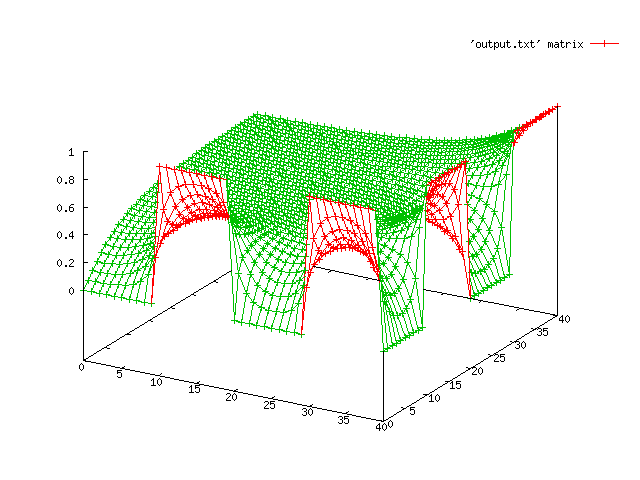
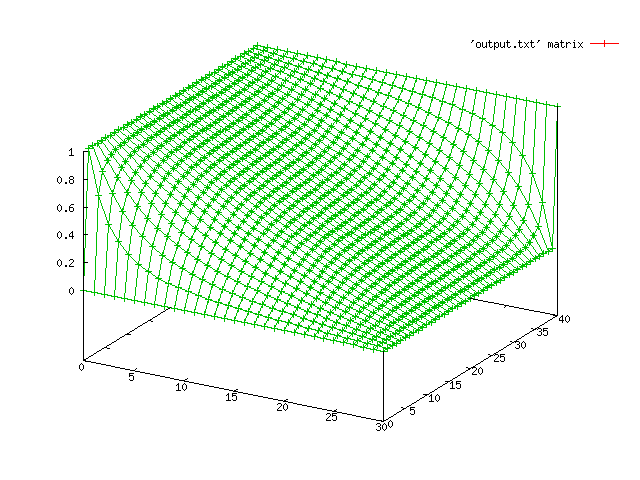
generalized laplace to non-symmetric case. modified problem_basic class to contain vars needed for optimization of non-symmetric case. fixed a bug in the makefile.

diff --git a/branches/refactor-1/problem/problem_basic.h b/branches/refactor-1/problem/problem_basic.h
@@ -47,6 +47,8 @@ protected:
   vector< vector<double> > sol;	// the solution
   int gx, gy;	// grid points in the first (i) and second (j) variables, resp
   double sx, sy;	// grid spacing in the first and second variables, resp
+  double ssx, ssy;	// spacings squared; sx*sx, sy*sy
+  double rss;		// ratio of the squared spacings ssx/ssy
   pair<double, double> x, y;	// ranges for first and second vars, resp
   boundary tp, rt, bt, lf;	// boundaries, resp.; top, right, bottom, left
 

diff --git a/branches/refactor-1/problem/laplace.h b/branches/refactor-1/problem/laplace.h
@@ -21,9 +21,9 @@ public:
   // methods
   double a(int i, int j) const { return 1;}
   double b(int i, int j) const { return 1;}
-  double c(int i, int j) const { return 1;}
-  double d(int i, int j) const { return 1;}
-  double e(int i, int j) const { return -4;}
+  double c(int i, int j) const { return rss;}
+  double d(int i, int j) const { return rss;}
+  double e(int i, int j) const { return -2*(1+rss);}
   double f(int i, int j) const { return 0;}
 
 };

diff --git a/branches/refactor-1/gs_l.cpp b/branches/refactor-1/gs_l.cpp
@@ -48,6 +48,7 @@ main(int argc, char* argv[])
   cout << "# final norm:\t" << norm1 << endl;
   cout << "# ratio:\t" << ratio << endl;
   cout << "# iterations:\t" << iter << endl;
+  cout << "# sx^2/sy^2:\t" << lp.c(1,1) << endl;
 
   cout.precision(PRECISION);
   for(j = J; j >= 0; --j){

diff --git a/branches/refactor-1/problem/problem_basic.cpp b/branches/refactor-1/problem/problem_basic.cpp
@@ -11,6 +11,7 @@ problem_basic::problem_basic(int I,
   : gx(I), gy(J), x(range_x), y(range_y),
     sx((range_x.second-range_x.first)/I),
     sy((range_y.second-range_x.first)/J),
+    ssx(sx*sx), ssy(sy*sy), rss(ssx/ssy),
     tp(top), rt(right), bt(bottom), lf(left)
 {
   int i;
